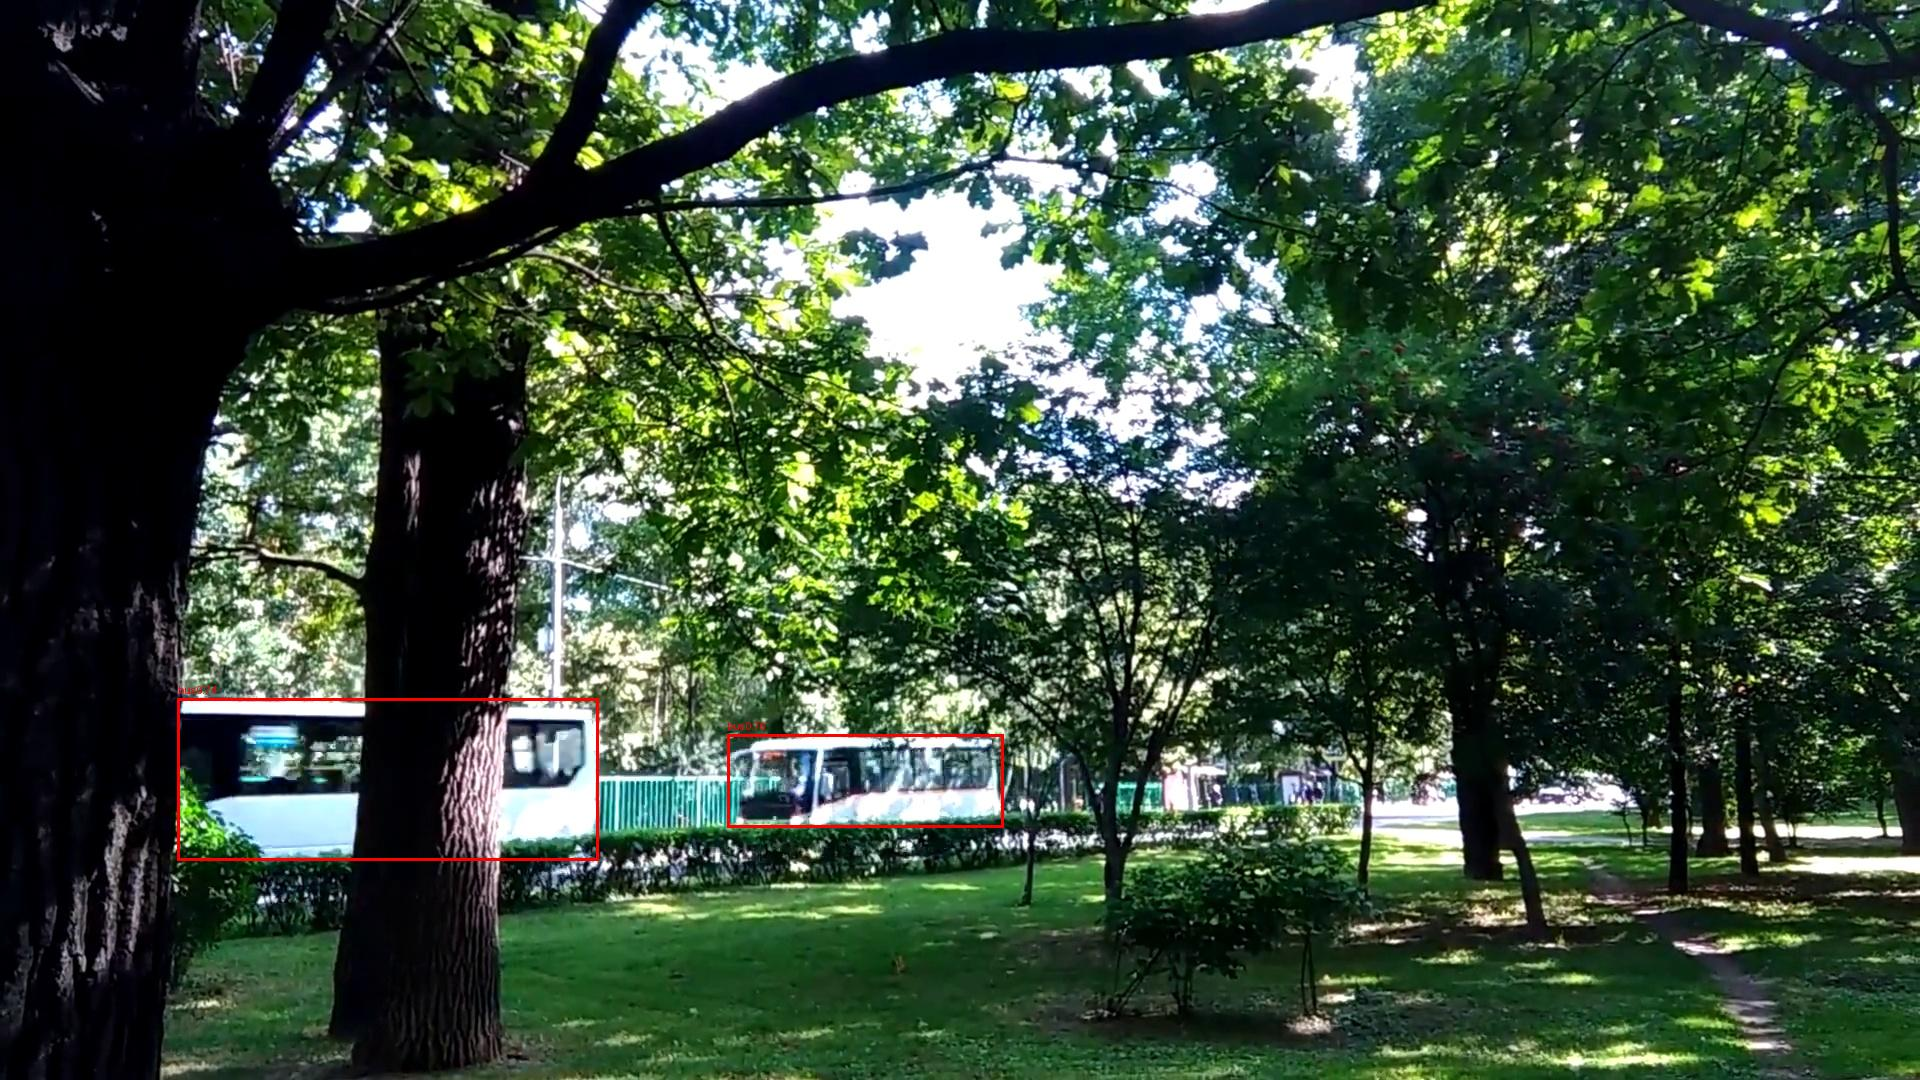
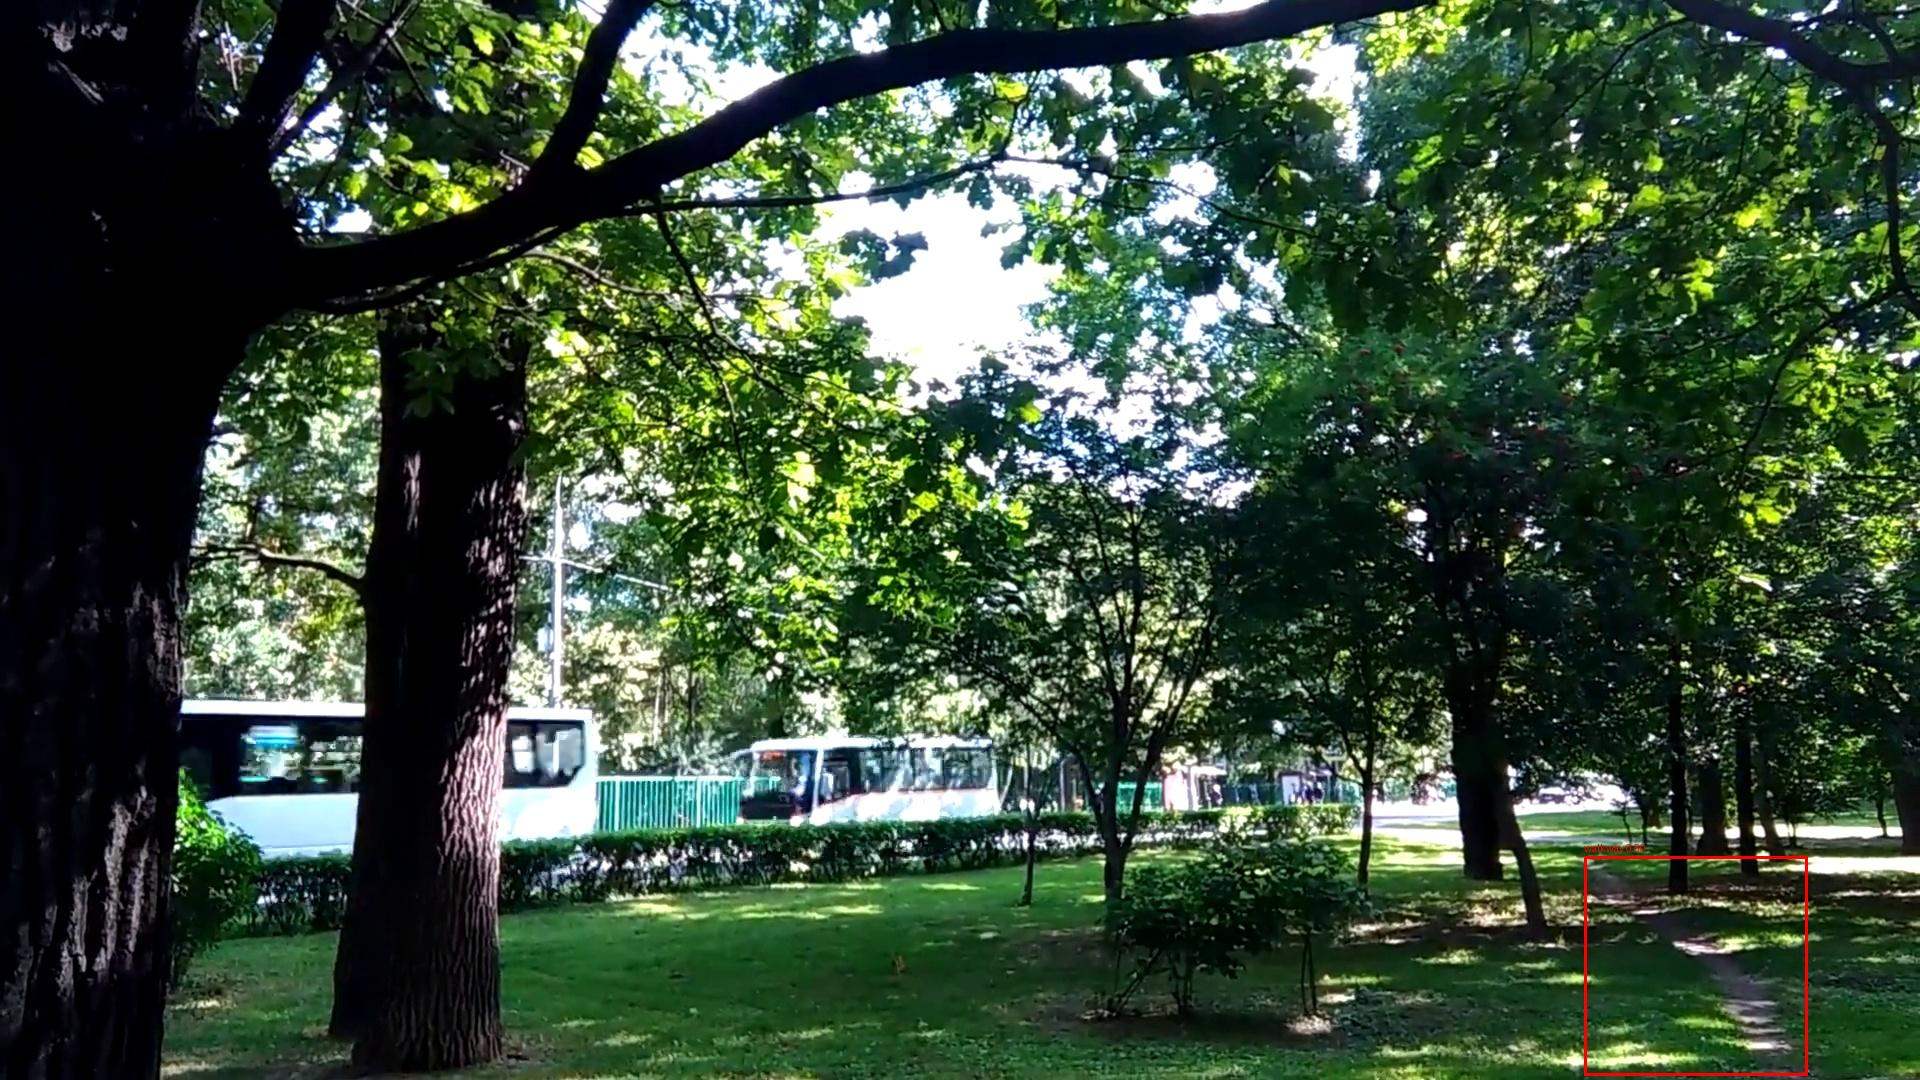
updated ground dino parameters, changed model from tiny to base

diff --git a/src/detection/grounding_dino_detector.py b/src/detection/grounding_dino_detector.py
@@ -26,7 +26,7 @@ class GroundingDinoDetector(
         self,
         model_name: str = (
             "IDEA-Research/"
-            "grounding-dino-tiny"
+            "grounding-dino-base"
         ),
         device: str = "cpu",
     ):
@@ -58,27 +58,22 @@ class GroundingDinoDetector(
 
         self.model.eval()
 
-    def detect(
-        self,
-        image_path: str,
-        labels: list[str],
-        box_threshold: float = 0.35,
-        text_threshold: float = 0.25,
-    ) -> list[ObjectDetection]:
+    def detect(self,image_path: str,labels: list[str],box_threshold: float = 0.40,text_threshold: float = 0.30,) -> list[ObjectDetection]:
 
-        path = Path(
-            image_path
-        )
+        path = Path(image_path)
 
         if not path.exists():
-
             raise FileNotFoundError(
-                f"Image not found: "
-                f"{image_path}"
+                f"Image not found: {image_path}"
             )
 
-        if not labels:
+        clean_labels = [
+            label.strip().lower()
+            for label in labels
+            if label.strip()
+        ]
 
+        if not clean_labels:
             raise ValueError(
                 "At least one detection "
                 "label is required."
@@ -90,10 +85,8 @@ class GroundingDinoDetector(
             .convert("RGB")
         )
 
-        # Grounding DINO accepts
-        # one list of labels per image.
         text_labels = [
-            labels
+            clean_labels
         ]
 
         inputs = self.processor(
@@ -103,9 +96,7 @@ class GroundingDinoDetector(
         )
 
         inputs = {
-            key: value.to(
-                self.device
-            )
+            key: value.to(self.device)
             for key, value
             in inputs.items()
         }
@@ -122,9 +113,7 @@ class GroundingDinoDetector(
                 outputs,
 
                 input_ids=
-                    inputs[
-                        "input_ids"
-                    ],
+                    inputs["input_ids"],
 
                 threshold=
                     box_threshold,
@@ -155,9 +144,13 @@ class GroundingDinoDetector(
             "scores"
         ]
 
-        detected_labels = result[
-            "labels"
-        ]
+        detected_labels = result.get(
+            "text_labels",
+            result.get(
+                "labels",
+                [],
+            ),
+        )
 
         for (
             box,

diff --git a/src/detection/crop.py b/src/detection/crop.py
@@ -1,0 +1,89 @@
+from pathlib import Path
+
+from PIL import Image
+
+from src.models.detection import (
+    ObjectDetection,
+)
+
+
+def crop_detection(
+    detection: ObjectDetection,
+    output_path: str,
+    padding: float = 0.10,
+) -> str:
+
+    image = (
+        Image
+        .open(detection.image_path)
+        .convert("RGB")
+    )
+
+    width, height = image.size
+
+    box_width = (
+        detection.x2
+        - detection.x1
+    )
+
+    box_height = (
+        detection.y2
+        - detection.y1
+    )
+
+    pad_x = (
+        box_width
+        * padding
+    )
+
+    pad_y = (
+        box_height
+        * padding
+    )
+
+    x1 = max(
+        0,
+        detection.x1 - pad_x,
+    )
+
+    y1 = max(
+        0,
+        detection.y1 - pad_y,
+    )
+
+    x2 = min(
+        width,
+        detection.x2 + pad_x,
+    )
+
+    y2 = min(
+        height,
+        detection.y2 + pad_y,
+    )
+
+    crop = image.crop(
+        (
+            int(x1),
+            int(y1),
+            int(x2),
+            int(y2),
+        )
+    )
+
+    output = Path(
+        output_path
+    )
+
+    output.parent.mkdir(
+        parents=True,
+        exist_ok=True,
+    )
+
+    crop.save(
+        output
+    )
+
+    crop.close()
+    image.close()
+
+    return str(output)

diff --git a/scripts/detect_objects.py b/scripts/detect_objects.py
@@ -26,13 +26,13 @@ def main():
     parser.add_argument(
         "--box-threshold",
         type=float,
-        default=0.50,
+        default=0.40,
     )
 
     parser.add_argument(
         "--text-threshold",
         type=float,
-        default=0.35,
+        default=0.30,
     )
 
     parser.add_argument(
